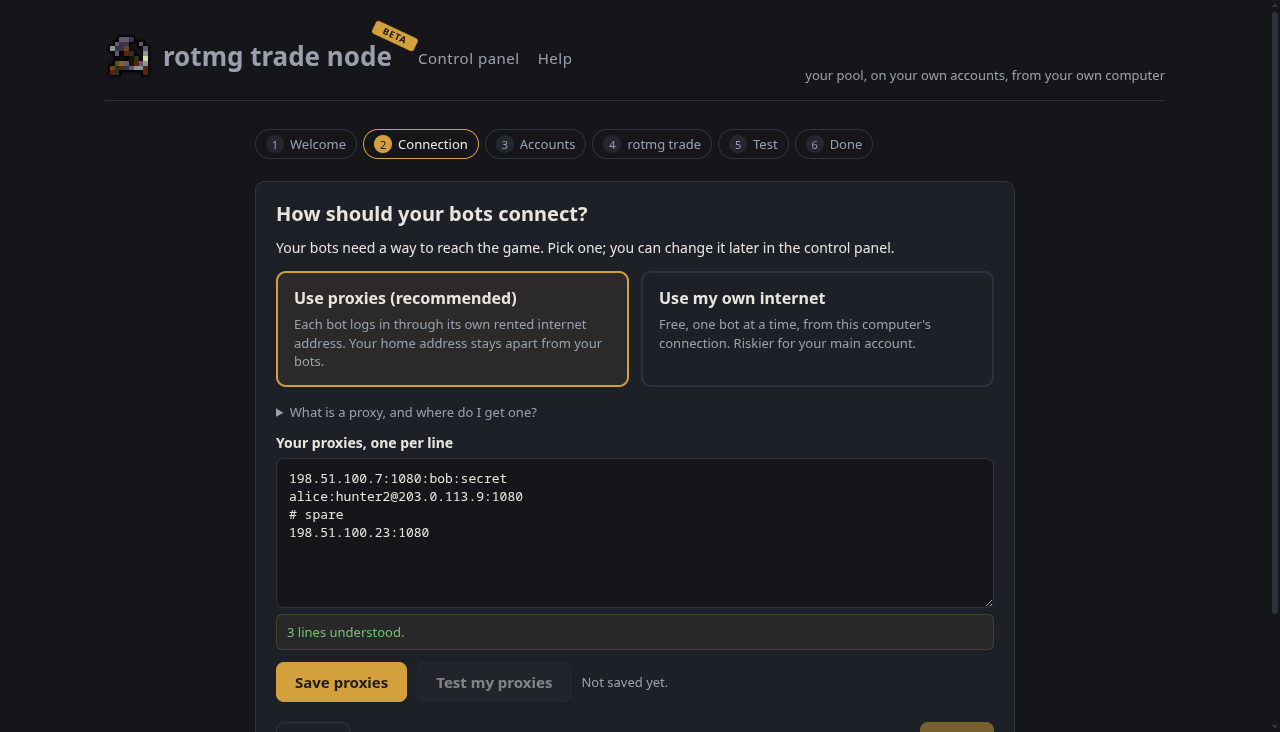
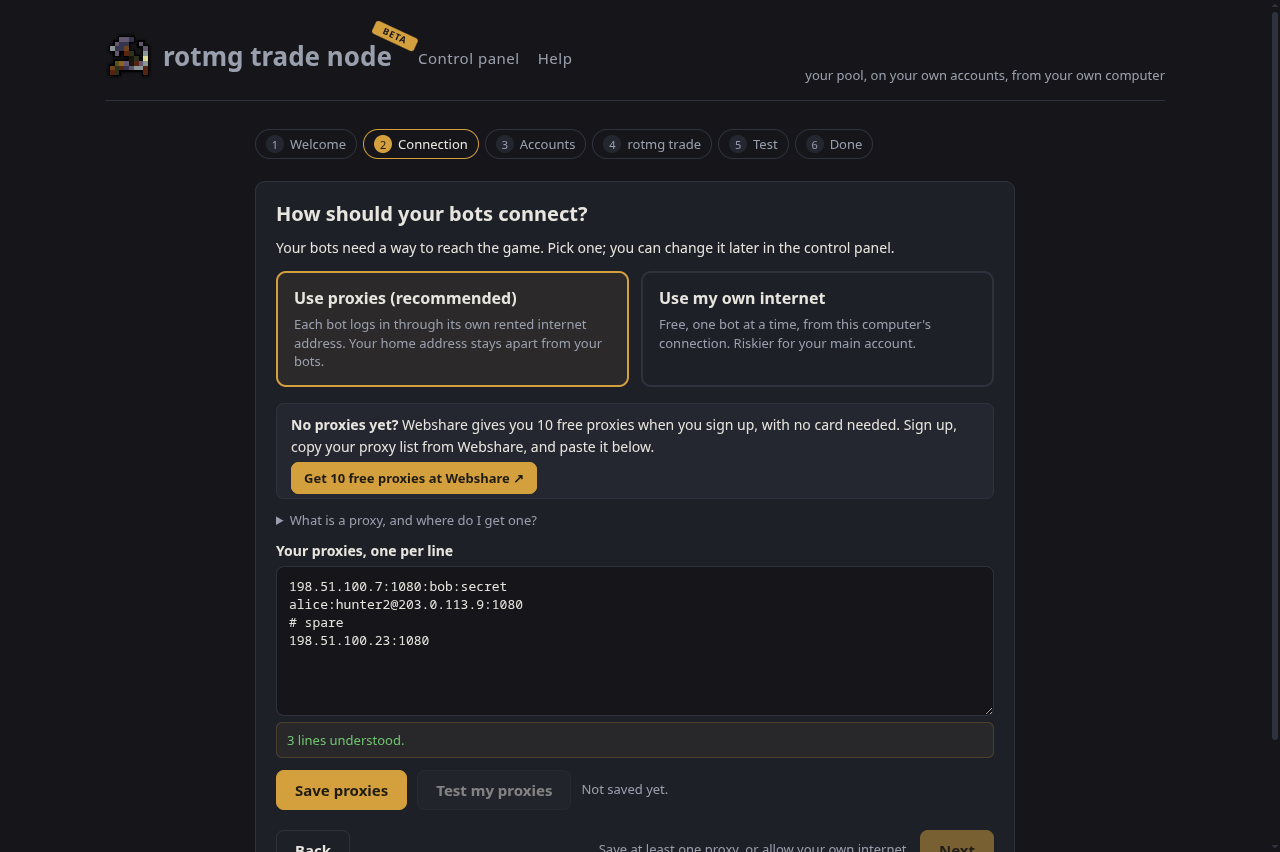
Proxies: point new owners at Webshare's 10 free proxies
While no proxies are saved, the proxy editor shows a "No proxies yet?" box
with a "Get 10 free proxies at Webshare" button. The editor is shared by
the setup wizard's Connection step and the Proxies tab, so both get it.

The "where do I get one?" explainer and the getting-started guide mention
Webshare too, and the guide's Connection screenshot is retaken.

The proxy feedback line no longer shows as an empty box before anything
is pasted.

diff --git a/src/client/shared/ProxyEditor.tsx b/src/client/shared/ProxyEditor.tsx
@@ -1,9 +1,20 @@
-import { useEffect, useRef, useState } from "react";
+import { useEffect, useRef, useState, type ReactNode } from "react";
 import { getProxies, parseProxies, saveProxies, testProxies, type ParsedLine, type ProxyTest } from "./api";
 
 // Paste proxies, see at once which lines the node understands, save, and test
 // them for real (each one reaches Realm's website and a game server through
 // the proxy). Shared by the setup wizard and the control panel's Proxies tab.
+
+/** Free proxies for a new owner: Webshare gives 10 when you sign up, with no card needed. */
+export const FREE_PROXIES_URL = "https://www.webshare.io/";
+
+function FreeProxiesLink({ children }: { children: ReactNode }) {
+  return (
+    <a href={FREE_PROXIES_URL} target="_blank" rel="noopener noreferrer">
+      {children}
+    </a>
+  );
+}
 
 export function ProxyExplainer() {
   return (
@@ -15,12 +26,28 @@ export function ProxyExplainer() {
           coming from your home connection — the one your main account uses. One proxy carries one bot at a time.
         </p>
         <p>
-          Search the web for <b>&ldquo;SOCKS5 proxies&rdquo;</b> and buy from a seller you trust: dedicated (not shared) ones work best. After you buy, the
-          seller shows a list of lines such as <span className="ui-mono">1.2.3.4:1080:username:password</span>. Copy the whole list and paste it below.
+          To start for free, sign up at <FreeProxiesLink>Webshare</FreeProxiesLink>: it gives you 10 proxies at no cost, with no card needed. For more
+          bots, search the web for <b>&ldquo;SOCKS5 proxies&rdquo;</b> and buy from a seller you trust: dedicated (not shared) ones work best. Either way
+          you get a list of lines such as <span className="ui-mono">1.2.3.4:1080:username:password</span>. Copy the whole list and paste it below.
           Most formats work; the node tells you line by line what it understood.
         </p>
       </div>
     </details>
+  );
+}
+
+/** For an owner with no proxies yet: where to get some for free, in plain sight. */
+function FreeProxiesOffer() {
+  return (
+    <div className="ui-msg" role="note" style={{ marginTop: 0 }}>
+      <p style={{ margin: "0 0 10px" }}>
+        <b>No proxies yet?</b> Webshare gives you 10 free proxies when you sign up, with no card needed. Sign up, copy your proxy list from
+        Webshare, and paste it below.
+      </p>
+      <a className="ui-btn small primary" href={FREE_PROXIES_URL} target="_blank" rel="noopener noreferrer">
+        Get 10 free proxies at Webshare <span aria-hidden="true">↗</span>
+      </a>
+    </div>
   );
 }
 
@@ -108,6 +135,7 @@ export default function ProxyEditor({ onSaved }: { onSaved?: (count: number) => 
   const working = results?.filter((x) => x.ok).length ?? 0;
   return (
     <div>
+      {saved !== null && !saved.trim() && <FreeProxiesOffer />}
       <ProxyExplainer />
       <div className="ui-field" style={{ marginTop: 12 }}>
         <label htmlFor="proxy-list">Your proxies, one per line</label>

diff --git a/src/client/globals.css b/src/client/globals.css
@@ -2570,6 +2570,8 @@ ul.tx-feed li:last-child {
 .ui-field { display: flex; flex-direction: column; gap: 6px; margin-bottom: 12px; }
 .ui-field label { font-weight: 600; font-size: 14px; }
 .ui-field .hint { color: var(--muted); font-size: 13px; }
+/* No feedback yet: no empty box (it stays in the page, so screen readers still hear what arrives). */
+.ui-field .hint:empty { padding: 0; border: 0; background: none; }
 .ui-input, .ui-textarea { font: inherit; font-size: 15px; padding: 10px 12px; background: var(--bg); color: var(--text); border: 1px solid var(--border); border-radius: 8px; width: 100%; max-width: 420px; }
 .ui-textarea { max-width: none; min-height: 150px; font-family: ui-monospace, Consolas, monospace; font-size: 13px; }
 .ui-input:focus, .ui-textarea:focus { outline: none; border-color: var(--accent); }

diff --git a/docs/getting-started.md b/docs/getting-started.md
@@ -6,7 +6,7 @@ rotmg trade node runs a trading pool for Realm of the Mad God on your own comput
 
 - A Windows 10 or Windows 11 PC that stays on while you want people to trade.
 - One or more **Realm alt accounts**: made on Realm's website with an email and password, with the **tutorial finished**. Never use your main account.
-- **Proxies** (recommended), or your own internet for one bot at a time. The setup explains both.
+- **Proxies** (recommended), or your own internet for one bot at a time. The setup explains both. No proxies yet? [Webshare](https://www.webshare.io/) gives you 10 free ones when you sign up, with no card needed.
 
 ## 1. Install
 
@@ -26,7 +26,7 @@ The setup opens by itself the first time you start the app. You can go back and 
 
 1. **Welcome.** What the app does and what you need.
 2. **Connection.** Choose how your bots reach the game:
-   - **Use proxies (recommended).** Paste the list your proxy seller gave you, press **Save proxies**, then **Test my proxies**. Each line shows whether it works.
+   - **Use proxies (recommended).** Paste the list your proxy seller gave you, press **Save proxies**, then **Test my proxies**. Each line shows whether it works. If you have none yet, press **Get 10 free proxies at Webshare**, sign up, and copy the list Webshare gives you.
    - **Use my own internet.** Free, but your bots and your main account then come from the same home address. Read the warning, tick **I understand**, and only one bot logs in at a time.
 3. **Accounts.** Add your alt accounts one by one with their email and password. "Added" means Realm accepted the account. If something is wrong, the setup says what to do.
 4. **rotmg trade (optional).** Linking lets people find your pool on the rotmg trade website. Sign in on rotmg trade, open **My nodes**, press **Link my node**, and paste the code. You can skip this and do it later.
